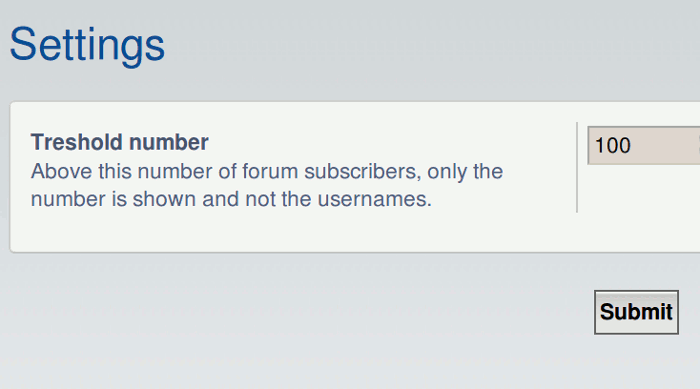
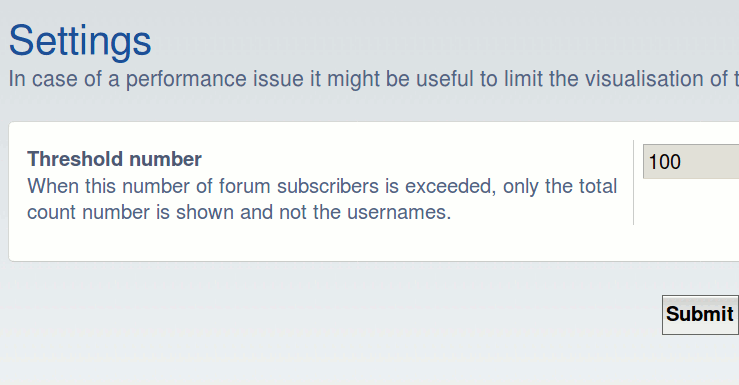
v 0.1.3

diff --git a/adm/style/settings.html b/adm/style/settings.html
@@ -24,21 +24,6 @@
 				<input type="number" name="threshold" id="treshold" value="{{- THRESHOLD -}}">
 			</dd>
 		</dl>
-		<dl>
-			<dt>
-				<label for="latest">
-					{{- lang('ACP_MARTTIPHPBB_SHOWFORUMSUBSCRIBERS_LATEST') -}}
-				</label>
-				<br>
-				<span>
-					{{- lang('ACP_MARTTIPHPBB_SHOWFORUMSUBSCRIBERS_LATEST_EXPLAIN') -}}
-				</span>
-			</dt>
-			<dd>
-				<input type="number" name="latest" id="latest" value="{{- LATEST -}}">
-			</dd>
-		</dl>
-
 	</fieldset>
 
 	<fieldset class="submit-buttons">

diff --git a/language/en/acp.php b/language/en/acp.php
@@ -28,13 +28,4 @@ $lang = array_merge($lang, [
 	'ACP_MARTTIPHPBB_SHOWFORUMSUBSCRIBERS_THRESHOLD_EXPLAIN'
 		=> 'When this number of forum subscribers is exceeded, only the
 		total count number is shown and not the usernames.',
-	'ACP_MARTTIPHPBB_SHOWFORUMSUBSCRIBERS_LATEST'
-		=> 'Show latest forum subscribers up to',
-	'ACP_MARTTIPHPBB_SHOWFORUMSUBSCRIBERS_LATEST_EXPLAIN'
-		=> 'This number of latest forum
-		subscribers are shown in order of subscription (latest last).
-		When this setting is zero or negative, all forum subscriber
-		usernames are shown alphabetically. In both cases,
-		the threshold setting overrules. When the threshold is exceeded,
-		only the total count number of subscribers is shown.',
 ]);

diff --git a/acp/main_module.php b/acp/main_module.php
@@ -39,7 +39,6 @@ class main_module
 					}
 
 					$config->set(cnst::ID . '_threshold', $request->variable('threshold', 0));
-					$config->set(cnst::ID . '_latest', $request->variable('latest', 0));
 
 					trigger_error($language->lang(cnst::L_ACP . '_SETTINGS_SAVED') . adm_back_link($this->u_action));
 				}
@@ -47,7 +46,6 @@ class main_module
 				$template->assign_vars([
 					'U_ACTION'	=> $this->u_action,
 					'THRESHOLD'	=> $config[cnst::ID . '_threshold'],
-					'LATEST'	=> $config[cnst::ID . '_latest'],
 				]);
 
 				break;

diff --git a/service/forum_subscribers.php b/service/forum_subscribers.php
@@ -8,12 +8,6 @@
 namespace marttiphpbb\showforumsubscribers\service;
 
 use phpbb\db\driver\factory as db;
-use phpbb\auth\auth;
-use phpbb\config\db as config;
-use phpbb\controller\helper;
-use phpbb\template\twig\twig as template;
-use phpbb\user;
-use phpbb\language\language;
 use marttiphpbb\showforumsubscribers\util\cnst;
 
 class forum_subscribers
@@ -46,7 +40,7 @@ class forum_subscribers
 		return $count;
 	}
 
-	function get_string(int $forum_id):string
+	public function get_string(int $forum_id):string
 	{
 		$users = [];
 

diff --git a/migrations/mgr_3.php b/migrations/mgr_3.php
@@ -23,7 +23,6 @@ class mgr_3 extends migration
 	{
 		return [
 			['config.remove', [cnst::ID . '_treshold']],
-			['config.add', [cnst::ID . '_latest', 20]],
 		];
 	}
 }
